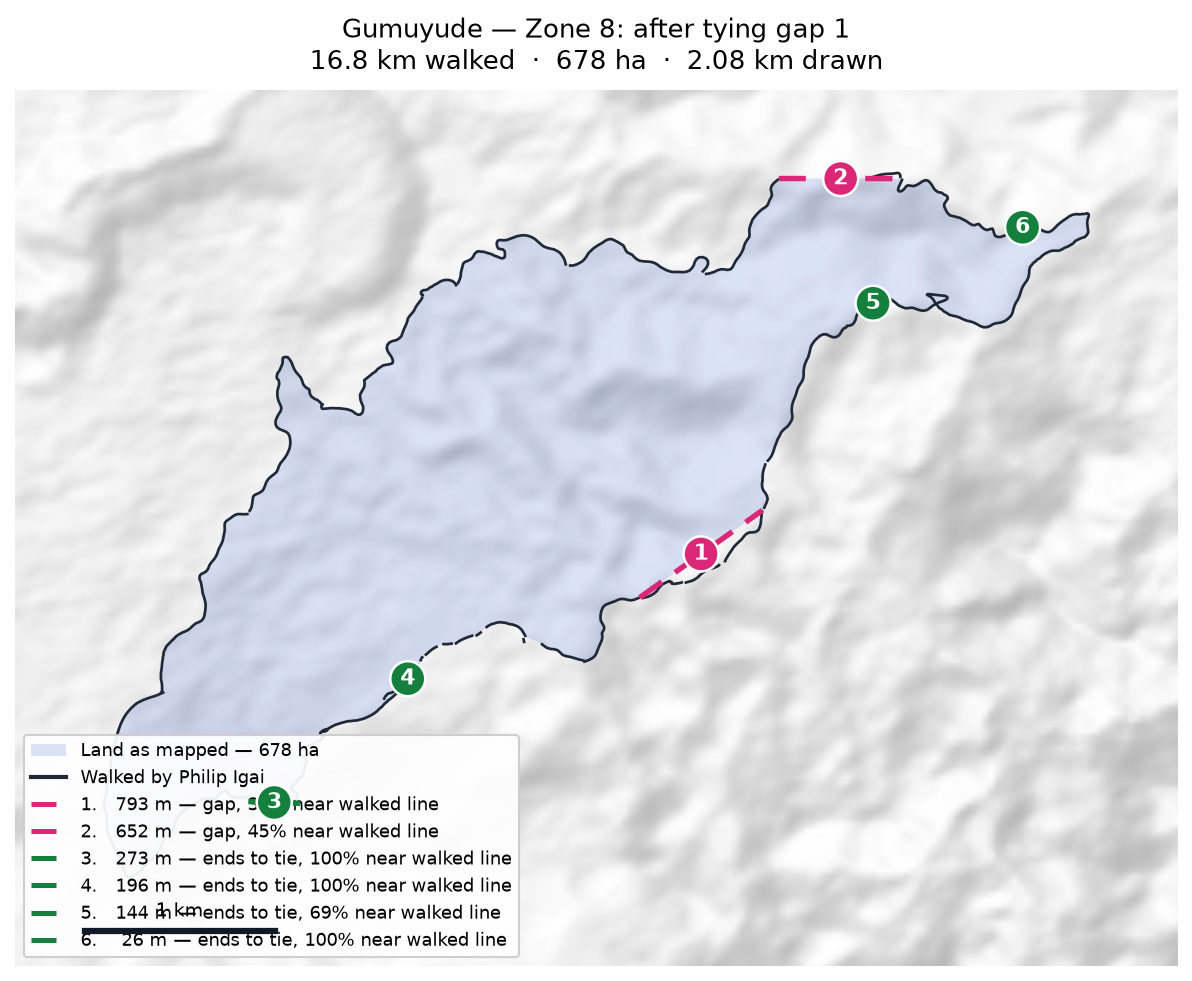
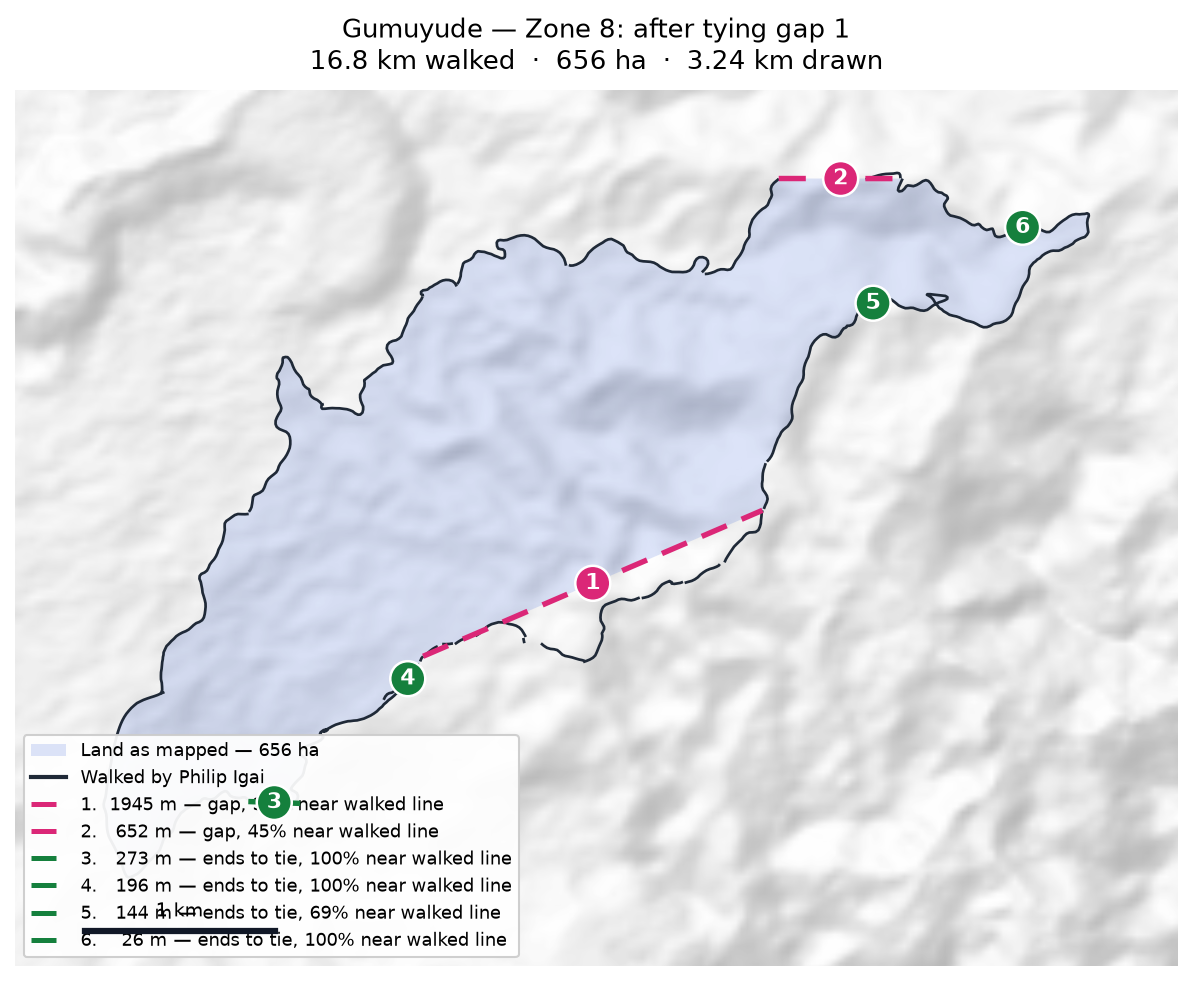
Collate what the chord fix did, and keep it
Kept rather than reverted. It is right on Riribudeh — 397 ha with the chord
gone, matching two stewards' rings computed independently — and wrong on
Gumuyude, whose drawn line more than doubled, and on Natang, which fell from
1,535 ha to 49. Every finished clan is untouched.

It is worth keeping because the disagreement is itself the finding: chain-
shaped surveys and mesh-shaped surveys need different tools, and the test
between them is how many free ends a component has. Reverting would buy back
Gumuyude's figure and lose that.

Also records the rule Gumuyude taught: tying ends is only safe when it closes
the survey outright, because a T-junction consumes two free ends and creates
none, so a partial tie leaves the closing step with nothing to read.

Claude-Session: https://claude.ai/code/session_01K6X75MkuiGQ9rmgDZx45vk

diff --git a/docs/UNTANGLING.md b/docs/UNTANGLING.md
@@ -240,6 +240,7 @@ Measured on this dataset, best first.
 
 | fix | effect |
 | --- | --- |
+| Chord: enter a closed piece where its neighbours are (§11) | **mixed, kept.** Riribudeh 372 → **397 ha** with the chord gone, matching two stewards' rings independently; Gumuyude 678 → 656 ha with its drawn line more than doubled; Natang 1,535 → 49 ha, which showed that its old area was the chord and nothing else. Every finished clan untouched |
 | Ring order, per steward (§3) | Riribudeh **397 and 398 ha** from two independent recordings, one real gap found, no chord; Manuvoora's area in one step |
 | Ask whether the tracks enclose ground (§14) | surveyed area 2,542 → **5,163 ha**; inferred share 92% → 85% |
 | Order and orient the pieces before joining (2-opt) | Tuoko 3,282 → **3,676 ha**; Bimkol 0 → 158 ha; 36/36 polygons valid |
@@ -248,6 +249,13 @@ Measured on this dataset, best first.
 | Tie loose ends to the line beside them (§10) | Kasaki 1.34 km of false gap → **0**; closes on the walk |
 | River routing where water cannot be walked | Manuvoora's four-waterfall stretch; 828 → 1,058 ha and closed |
 | Count sacred sites from the linework, not the polygon | restored Rondi 5 and Juaiko 4 after filling destroyed the evidence |
+
+A note on the mixed one. It was kept rather than reverted because a fix that
+is right on one clan and wrong on another is still information: it told us
+that chain-shaped surveys and mesh-shaped surveys need different tools, and
+that the test between them is how many free ends a component has. Reverting
+would have bought back Gumuyude's figure and lost that. **Go backwards only
+for a reason better than the last number looking nicer.**
 
 **And one that was tried and rejected**, which is worth as much as the
 others. Joining each loose end to its *nearest* open end more than halves the
@@ -287,10 +295,16 @@ Faults that were not in the field data at all.
 
 ## 6. Still open
 
-- **The scaffolding chord (§11).** 214 km of drawn line that does not join
-  two open ends. Ring order (§3) solves it for compact clans and is not yet
-  wired into the pipeline; the sort key still has to be generalised before it
-  can be run on strip-shaped clans like Manuvoora.
+- **The mesh-shaped surveys.** Natang, Ginangi, Gubai, Mariura and Tuoko have
+  components with no free ends at all — Natang is 54 km of walked line in a
+  single doubled mesh. No bridging rule can read them, and after the chord
+  fix Natang reports 49 ha where it reported 1,535. Ring order is the tool
+  for these, and the sort key has to be generalised first (§3).
+- **Tying ends is only safe when it closes the survey outright.** Kasaki's
+  ties closed it and no bridging ran at all. Gumuyude's left one free end
+  over, and the closing step then drew 793 m across ground that had read as
+  walked the day before. A T-junction consumes two free ends and creates
+  none, so a partial tie strips the closing step of what it reads.
 - **Clans with too little walked to infer anything.** Zambiko reports 513 ha
   from 5.7 km walked, 79% of its outline drawn by the pipeline. The
   `--max-gap` limit is measured against the bridged ring rather than against
